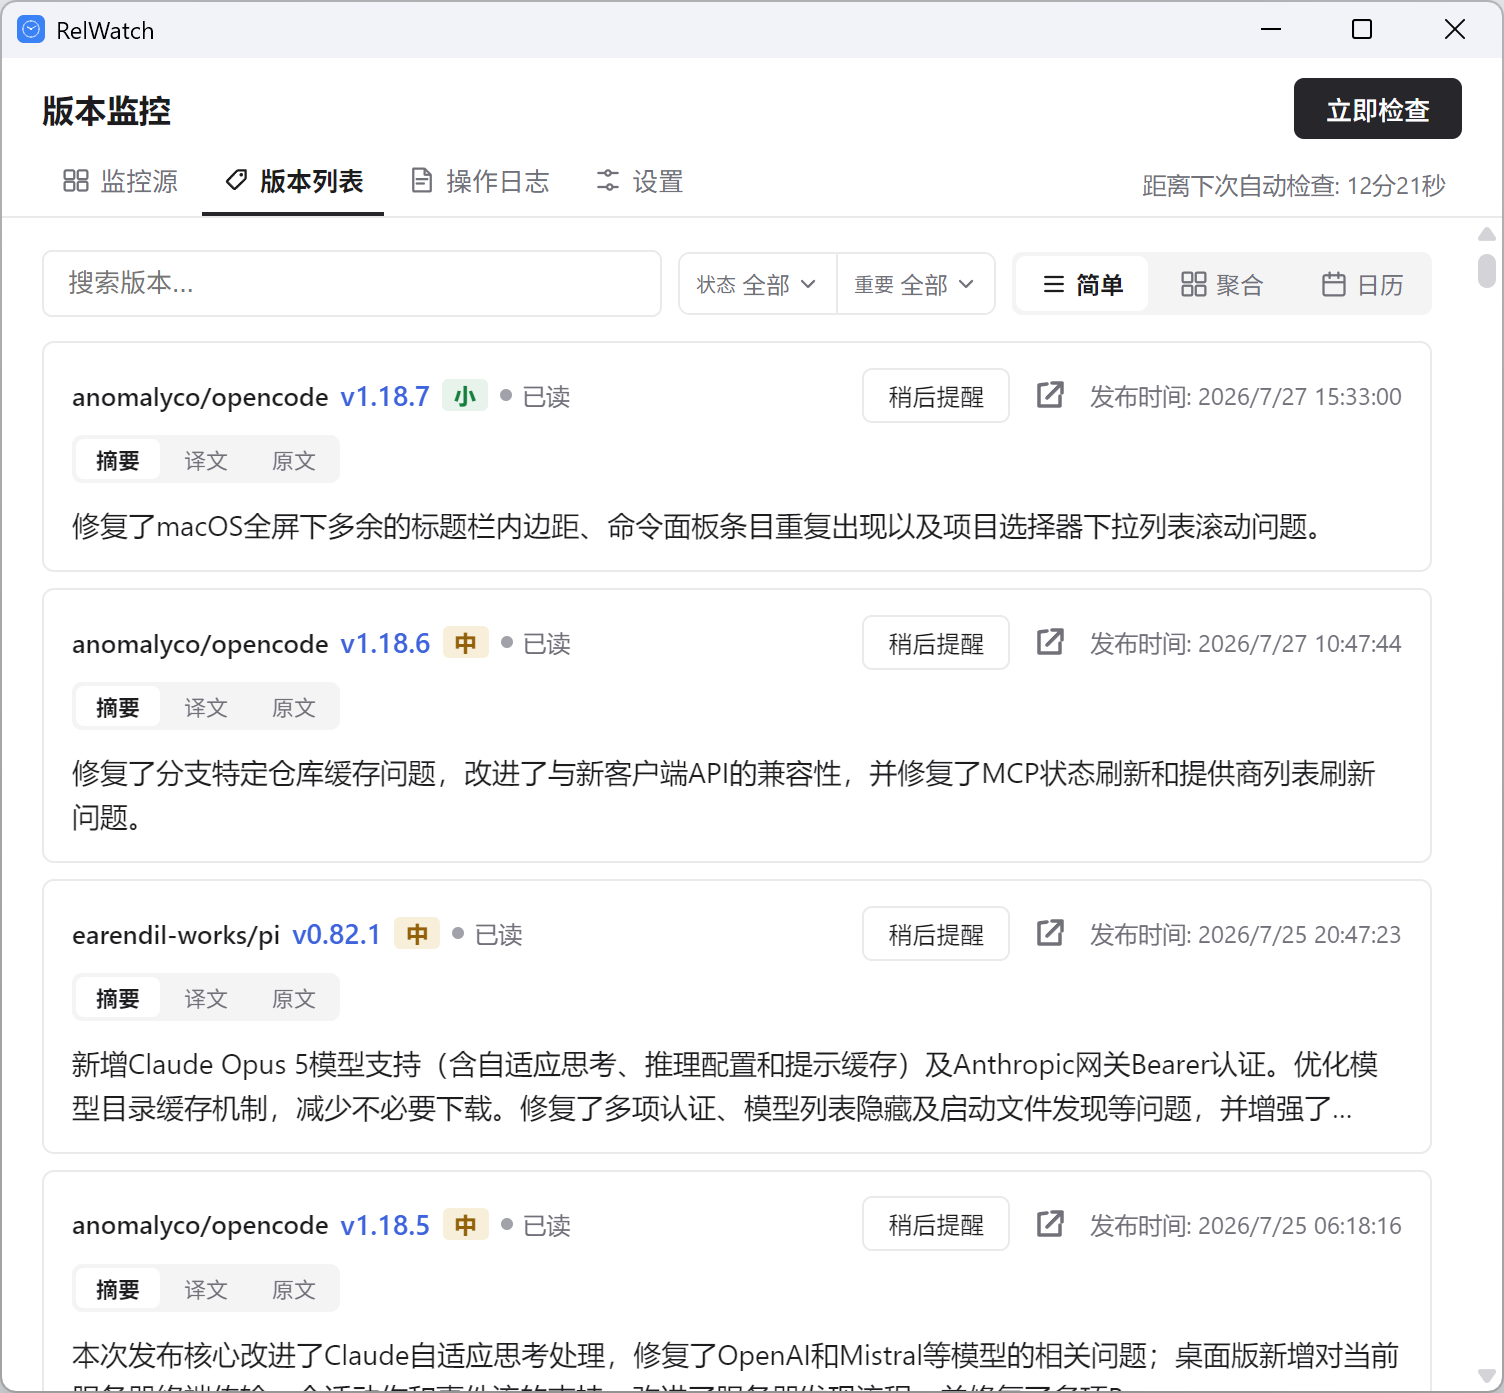
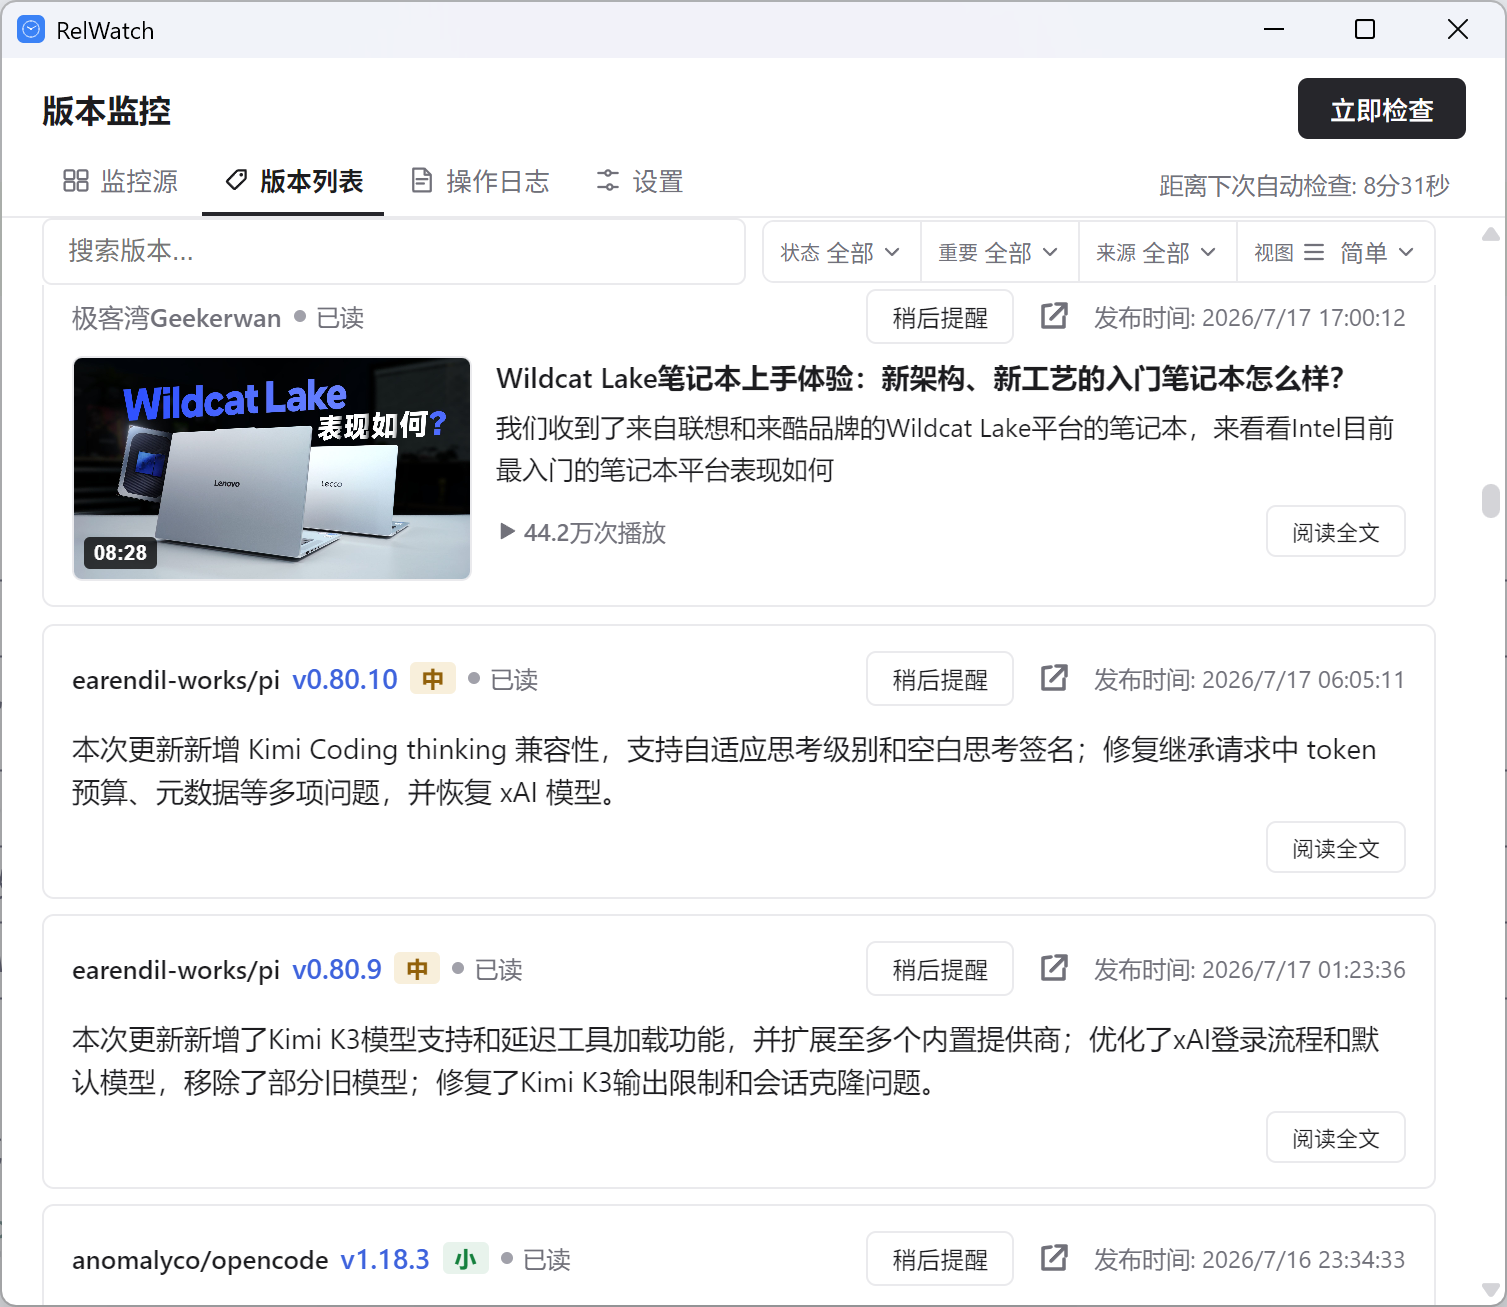
docs: 按当前能力重写 README 功能清单并更新界面截图
附带修复 notify.rs 跨平台编译：WinNotificationAction/parse_win_action 非 Windows 平台豁免 dead_code（CI 以 -D warnings 编译），parse_win_action 末分支改 ? 消除 clippy 1.97 question_mark

diff --git a/src-tauri/src/notify.rs b/src-tauri/src/notify.rs
@@ -34,6 +34,8 @@ pub(crate) fn notification_body(tag: &str, name: &str, importance: Option<&str>)
 }
 
 /// Windows 通知按钮动作（toast 按钮回调字符串格式 `go:<rid>` 等）。
+/// 仅 Windows 分支与跨平台测试引用，非 Windows 平台属死代码（CI 以 -D warnings 编译）。
+#[cfg_attr(not(windows), allow(dead_code))]
 #[derive(Debug, Clone, Copy, PartialEq, Eq)]
 pub(crate) enum WinNotificationAction {
     Go,
@@ -42,15 +44,14 @@ pub(crate) enum WinNotificationAction {
 }
 
 /// 解析 Windows 按钮动作字符串；rid 解析失败回退 0（与原 `unwrap_or(0)` 行为一致）。
+#[cfg_attr(not(windows), allow(dead_code))]
 pub(crate) fn parse_win_action(action: &str) -> Option<(WinNotificationAction, i64)> {
     let (kind, rest) = if let Some(rest) = action.strip_prefix("go:") {
         (WinNotificationAction::Go, rest)
     } else if let Some(rest) = action.strip_prefix("ignore:") {
         (WinNotificationAction::Ignore, rest)
-    } else if let Some(rest) = action.strip_prefix("snooze:") {
-        (WinNotificationAction::Snooze, rest)
     } else {
-        return None;
+        (WinNotificationAction::Snooze, action.strip_prefix("snooze:")?)
     };
     Some((kind, rest.parse().unwrap_or(0)))
 }

diff --git a/README.md b/README.md
@@ -1,28 +1,61 @@
 # RelWatch
 
-GitHub Release 监控桌面应用，使用 DeepSeek 开发。
+GitHub Release 监控桌面应用，使用 DeepSeek 开发。支持 GitHub / Hugging Face / YouTube / 哔哩哔哩多源监控，内置 DeepSeek AI 摘要与全文翻译。
 
 ## 功能
 
+### 多源监控
+
 | 功能 | 说明 |
 |------|------|
-| 自动轮询 | 定时检查监控源的版本更新 |
-| 多源支持 | GitHub 仓库 / HuggingFace 组织 / YouTube 频道 / 哔哩哔哩 UP 主 |
-| 桌面通知 | 发现新版本时弹出系统通知 |
-| AI 摘要 | 集成 DeepSeek API，自动生成版本更新摘要 |
+| 自动轮询 | 定时检查监控源更新，轮询周期可配置 |
+| GitHub 仓库 | 监控 Release 更新，支持预发布过滤与完整分页拉取历史版本 |
+| Hugging Face 组织 | 监控模型发布，展示 pipeline_tag / downloads / likes 等元数据徽标 |
+| YouTube 频道 | RSS 与 Data API v3 双模式，支持按内容类型订阅，显示播放量 |
+| B 站 UP 主 | 基于 web-dynamic 接口（WBI 签名）拉取动态，支持 Cookie 一键登录 |
+
+### 版本浏览
+
+| 功能 | 说明 |
+|------|------|
+| 聚合视图 | 多源版本流统一聚合，支持搜索、按状态（未读/已读）与来源类型筛选、排序 |
+| 日历视图 | 按日期热力图展示发布记录，重要程度以语义色区分 |
+| 版本详情弹窗 | Markdown 渲染、图片复制、外链守卫、拖拽调整大小、上/下一版本导航 |
+| 虚拟滚动 | 长列表流畅滚动，Markdown 渲染带缓存 |
+
+### AI 能力（DeepSeek）
+
+| 功能 | 说明 |
+|------|------|
+| 自动摘要 | 轮询发现新版本时自动生成更新摘要，按重要性分级 |
+| 全文翻译 | 摘要 / 译文 / 原文三视图切换，可选自动翻译 Release Notes |
+| 灵活配置 | 模型、Prompt、非官方 API 地址均可配置；支持 HTTP 代理，AI 请求可独立设置代理 |
+
+### 应用体验
+
+| 功能 | 说明 |
+|------|------|
+| 桌面通知 | Windows / macOS / Linux 系统通知 |
 | 系统托盘 | 关闭窗口时最小化到托盘，后台运行 |
-| 开机自启 | 开机自动启动，启动后最小化到系统托盘 |
-| 代理支持 | 支持 HTTP 代理，AI 请求可独立配置 |
+| 开机自启 | Windows（注册表）/ macOS（launchd）/ Linux（.desktop） |
+| 批量管理 | 监控源搜索、排序、批量暂停 / 恢复 / 静默 / 删除 |
 | 多语言 | 中文 / English |
-| 安全存储 | GitHub Token、API Key 加密存储 |
-| 批量操作 | 监控源支持搜索、排序、批量选择与批量暂停/恢复/静默/删除 |
-| 历史版本拉取 | 支持完整分页拉取所有历史 Release，不受上限限制 |
-| 主题切换 | 浅色/深色主题一键切换 |
-| 备份导出/导入 | 导出含时间戳和主机名的备份文件，支持导入恢复 |
+| 主题切换 | 浅色 / 深色一键切换 |
+| 操作日志 | 本地日志页，可配置保留天数 |
+| 备份导出 / 导入 | 导出含时间戳与主机名的备份文件，支持导入恢复 |
+| 功能统计 | 可选的使用埋点，本机存储，开发者面板可查看 |
+
+### 安全
+
+| 功能 | 说明 |
+|------|------|
+| 凭据加密 | GitHub Token、API Key 经系统凭据存储加密保存 |
+| 外链守卫 | 打开外部链接与下载前二次确认，防误触 |
+| SSRF 防护 | 下载前校验目标为公网地址，拒绝私网 / 回环 / 保留地址 |
 
 ## 安装 & 使用
 
-从 [GitHub Releases](https://github.com/hhelibeb/relwatch/releases/latest) 页面下载安装包安装，在监控源中添加想要监控的repo即可。
+从 [GitHub Releases](https://github.com/hhelibeb/relwatch/releases/latest) 页面下载对应平台的安装包（Windows NSIS / Linux deb、AppImage），安装后在「监控源」中添加想要监控的仓库、组织、频道或 UP 主即可。
 
 ## 界面
 
@@ -30,12 +63,17 @@ GitHub Release 监控桌面应用，使用 DeepSeek 开发。
 
 ## 技术栈
 
-Tauri v2 + Rust + Vue 3 + TypeScript + SQLite
+Tauri v2 · Rust · Vue 3 · TypeScript · SQLite · pnpm
 
 ## 快速开始
 
 ```bash
 pnpm install
-pnpm run dev           # 开发模式
-pnpm run tauri build   # 构建安装包
+pnpm run tauri dev    # 桌面开发模式
+pnpm run test         # 运行前端测试
+pnpm run tauri build  # 构建安装包
 ```
+
+## License
+
+MIT
